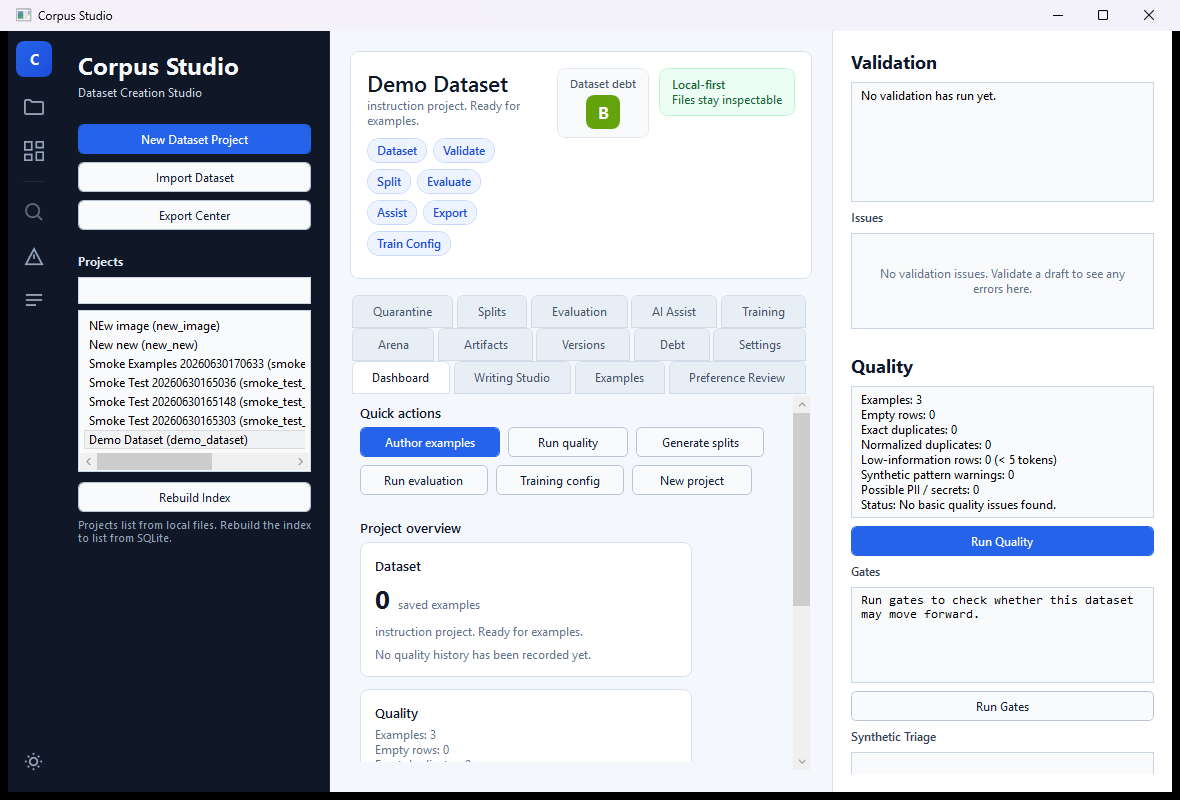
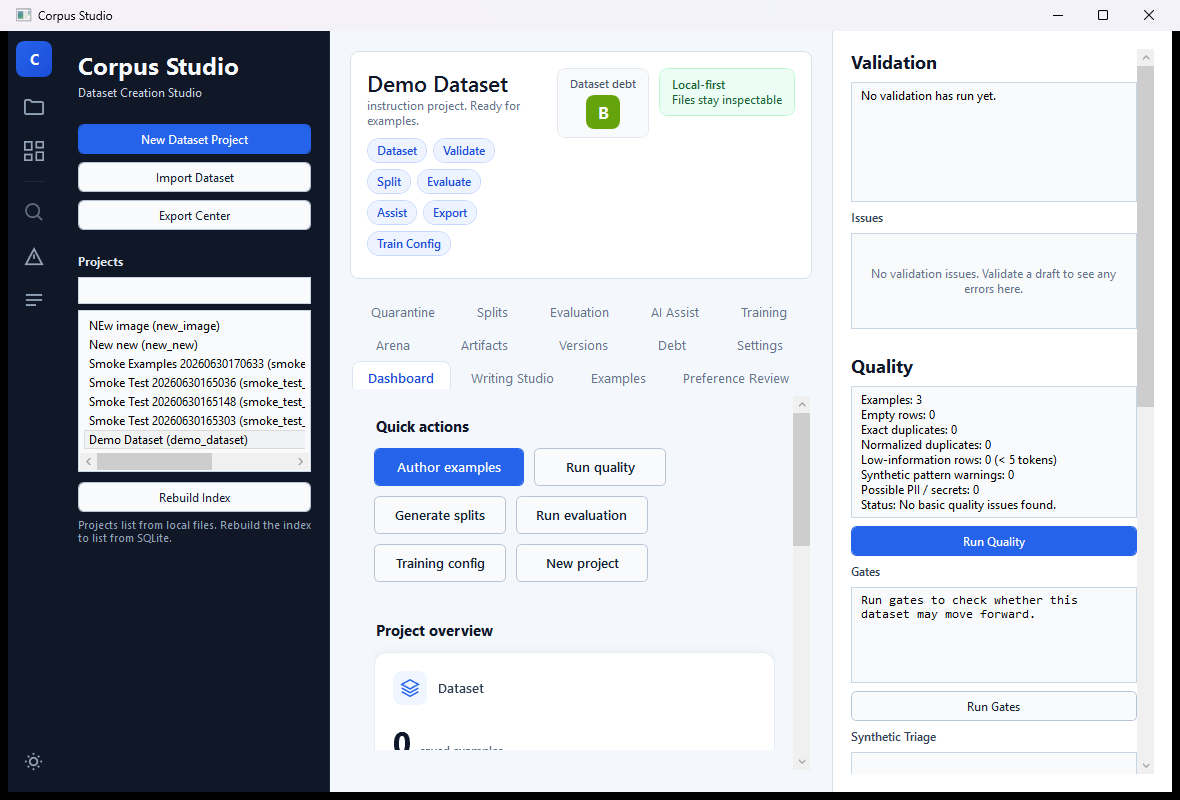
Refresh the Studio dashboard design — lighter, roomier, less bland (v1.2.10)
The Studio dashboard read as cluttered and flat: a heavy 3-row wall of boxy tabs,
cramped quick-action buttons, and plain title-over-text overview cards with little
breathing room. This is a visual pass (no logic changes) to calm it down.

- Tab strip: unselected tabs are now flat (transparent, muted) so a 14-tab strip
  reads as a light segmented control instead of a wall of boxes; the selected tab
  lifts to a white pill with a blue label. Cuts the biggest source of clutter.
- Overview cards: new DashboardCardStyle (radius 12, padding 18, soft drop shadow,
  softer border) + a coloured icon chip per card (Dataset/Quality/Splits/Evaluation)
  and a large metric value; cards now stretch full-width in a single calm column
  instead of narrow boxes floating with an empty gutter.
- Quick actions: taller (38px) buttons with more spacing; the primary "Author
  examples" stands out.
- More whitespace overall: bigger ScrollViewer padding and bolder section headers
  with room to breathe.

Pure XAML/styling — bindings, handlers, and automation ids are unchanged.

Verified: dotnet build clean (0 warnings); dotnet test 333 passed / 0 failed;
dashboard captured live via PrintWindow (docs/screenshots/studio-dashboard.png
refreshed).

diff --git a/apps/desktop/CorpusStudio.Desktop/Views/MainWindow.xaml b/apps/desktop/CorpusStudio.Desktop/Views/MainWindow.xaml
@@ -92,17 +92,20 @@
         </Style>
 
         <Style TargetType="{x:Type TabItem}">
-            <Setter Property="Padding" Value="12,8" />
-            <Setter Property="Margin" Value="0,0,4,0" />
-            <Setter Property="Foreground" Value="#475569" />
+            <Setter Property="Padding" Value="12,7" />
+            <Setter Property="Margin" Value="0,0,4,5" />
+            <Setter Property="Foreground" Value="#64748B" />
+            <Setter Property="FontSize" Value="12.5" />
             <Setter Property="Template">
                 <Setter.Value>
                     <ControlTemplate TargetType="{x:Type TabItem}">
+                        <!-- Flat by default so a 14-tab strip reads as a light segmented control,
+                             not a wall of boxes; the selected tab lifts to a white pill. -->
                         <Border x:Name="TabBorder"
-                                Background="#E8EEF6"
-                                BorderBrush="#D2DCE9"
+                                Background="Transparent"
+                                BorderBrush="Transparent"
                                 BorderThickness="1"
-                                CornerRadius="6,6,0,0"
+                                CornerRadius="8"
                                 Padding="{TemplateBinding Padding}">
                             <ContentPresenter ContentSource="Header"
                                               HorizontalAlignment="Center"
@@ -110,10 +113,15 @@
                                               RecognizesAccessKey="True" />
                         </Border>
                         <ControlTemplate.Triggers>
+                            <Trigger Property="IsMouseOver" Value="True">
+                                <Setter TargetName="TabBorder" Property="Background" Value="#E7EEF8" />
+                                <Setter Property="Foreground" Value="#334155" />
+                            </Trigger>
                             <Trigger Property="IsSelected" Value="True">
                                 <Setter TargetName="TabBorder" Property="Background" Value="{StaticResource PanelBrush}" />
-                                <Setter TargetName="TabBorder" Property="BorderBrush" Value="{StaticResource PanelBorderBrush}" />
-                                <Setter Property="Foreground" Value="#0F172A" />
+                                <Setter TargetName="TabBorder" Property="BorderBrush" Value="#DCE5F0" />
+                                <Setter Property="Foreground" Value="#1D4ED8" />
+                                <Setter Property="FontWeight" Value="SemiBold" />
                             </Trigger>
                         </ControlTemplate.Triggers>
                     </ControlTemplate>
@@ -192,6 +200,42 @@
             <Setter Property="BorderThickness" Value="1" />
             <Setter Property="CornerRadius" Value="8" />
             <Setter Property="Padding" Value="14" />
+        </Style>
+
+        <!-- Dashboard (v1.2.10) — roomier, softer cards + a bigger section header + a large
+             metric value, so the overview reads as a calm dashboard instead of dense boxes. -->
+        <Style x:Key="DashboardCardStyle" TargetType="{x:Type Border}">
+            <Setter Property="Background" Value="{StaticResource PanelBrush}" />
+            <Setter Property="BorderBrush" Value="#E6EDF5" />
+            <Setter Property="BorderThickness" Value="1" />
+            <Setter Property="CornerRadius" Value="12" />
+            <Setter Property="Padding" Value="18" />
+            <Setter Property="Effect">
+                <Setter.Value>
+                    <DropShadowEffect Color="#1E293B" BlurRadius="16" ShadowDepth="2"
+                                      Direction="270" Opacity="0.07" />
+                </Setter.Value>
+            </Setter>
+        </Style>
+
+        <Style x:Key="DashboardSectionHeaderStyle" TargetType="{x:Type TextBlock}">
+            <Setter Property="FontSize" Value="15" />
+            <Setter Property="FontWeight" Value="Bold" />
+            <Setter Property="Foreground" Value="{StaticResource HeadingTextBrush}" />
+            <Setter Property="Margin" Value="2,0,0,12" />
+        </Style>
+
+        <Style x:Key="DashboardCardLabelStyle" TargetType="{x:Type TextBlock}">
+            <Setter Property="FontSize" Value="12.5" />
+            <Setter Property="FontWeight" Value="SemiBold" />
+            <Setter Property="Foreground" Value="#334155" />
+            <Setter Property="VerticalAlignment" Value="Center" />
+        </Style>
+
+        <Style x:Key="DashboardMetricStyle" TargetType="{x:Type TextBlock}">
+            <Setter Property="FontSize" Value="32" />
+            <Setter Property="FontWeight" Value="Bold" />
+            <Setter Property="Foreground" Value="{StaticResource HeadingTextBrush}" />
         </Style>
 
         <Style x:Key="FilterGroupBorderStyle" TargetType="{x:Type Border}">
@@ -799,94 +843,121 @@
                     <TabItem x:Name="DashboardTab" Header="Dashboard">
                         <ScrollViewer VerticalScrollBarVisibility="Auto"
                                       HorizontalScrollBarVisibility="Disabled"
-                                      Padding="8">
+                                      Padding="22,20,18,20">
                             <StackPanel>
                                 <TextBlock Text="Quick actions"
-                                           Style="{StaticResource SectionHeaderTextStyle}" />
-                                <WrapPanel Margin="0,0,0,16">
+                                           Style="{StaticResource DashboardSectionHeaderStyle}" />
+                                <WrapPanel Margin="0,0,0,26">
                                     <Button Style="{StaticResource PrimaryButtonStyle}"
                                             AutomationProperties.AutomationId="DashboardAuthorButton"
                                             Content="Author examples"
-                                            Width="140" Margin="0,0,8,8"
+                                            Width="150" MinHeight="38" Margin="0,0,10,10"
                                             Click="GoToWritingStudioButton_Click" />
                                     <Button AutomationProperties.AutomationId="DashboardRunQualityButton"
                                             Content="Run quality"
-                                            Width="120" Margin="0,0,8,8"
+                                            Width="132" MinHeight="38" Margin="0,0,10,10"
                                             Click="RunQualityButton_Click" />
                                     <Button AutomationProperties.AutomationId="DashboardSplitsButton"
                                             Content="Generate splits"
-                                            Width="128" Margin="0,0,8,8"
+                                            Width="132" MinHeight="38" Margin="0,0,10,10"
                                             Click="GoToSplitsButton_Click" />
                                     <Button AutomationProperties.AutomationId="DashboardEvaluationButton"
                                             Content="Run evaluation"
-                                            Width="128" Margin="0,0,8,8"
+                                            Width="132" MinHeight="38" Margin="0,0,10,10"
                                             Click="GoToEvaluationButton_Click" />
                                     <Button AutomationProperties.AutomationId="DashboardTrainingButton"
                                             Content="Training config"
-                                            Width="128" Margin="0,0,8,8"
+                                            Width="132" MinHeight="38" Margin="0,0,10,10"
                                             Click="GoToTrainingButton_Click" />
                                     <Button AutomationProperties.AutomationId="DashboardNewProjectButton"
                                             Content="New project"
-                                            Width="120" Margin="0,0,8,8"
+                                            Width="132" MinHeight="38" Margin="0,0,10,10"
                                             Click="NewDatasetProjectButton_Click" />
                                 </WrapPanel>
 
                                 <TextBlock Text="Project overview"
-                                           Style="{StaticResource SectionHeaderTextStyle}" />
-                                <WrapPanel>
-                                    <Border Style="{StaticResource CardBorderStyle}"
-                                            Width="332" Margin="0,0,12,12" VerticalAlignment="Top">
+                                           Style="{StaticResource DashboardSectionHeaderStyle}"
+                                           Margin="2,2,0,12" />
+                                <StackPanel>
+                                    <!-- Dataset -->
+                                    <Border Style="{StaticResource DashboardCardStyle}"
+                                            Margin="0,0,0,14">
                                         <StackPanel>
-                                            <TextBlock Text="Dataset"
-                                                       Style="{StaticResource SectionHeaderTextStyle}" />
+                                            <StackPanel Orientation="Horizontal" Margin="0,0,0,14">
+                                                <Border Width="34" Height="34" CornerRadius="9" Background="#EFF6FF">
+                                                    <Path Data="M12,3 L21,8 L12,13 L3,8 Z M3,12 L12,17 L21,12 M3,16 L12,21 L21,16"
+                                                          Stroke="#2563EB" StrokeThickness="1.5" Fill="Transparent"
+                                                          Width="18" Height="18" Stretch="Uniform"
+                                                          HorizontalAlignment="Center" VerticalAlignment="Center" />
+                                                </Border>
+                                                <TextBlock Text="Dataset" Style="{StaticResource DashboardCardLabelStyle}" Margin="11,0,0,0" />
+                                            </StackPanel>
                                             <StackPanel Orientation="Horizontal">
                                                 <TextBlock Text="{Binding Examples.Count, Mode=OneWay}"
-                                                           FontSize="26" FontWeight="Bold"
-                                                           Foreground="{StaticResource HeadingTextBrush}" />
+                                                           Style="{StaticResource DashboardMetricStyle}" />
                                                 <TextBlock Text="saved examples"
                                                            Style="{StaticResource CaptionTextStyle}"
-                                                           VerticalAlignment="Bottom"
-                                                           Margin="8,0,0,4" />
+                                                           VerticalAlignment="Bottom" Margin="9,0,0,6" />
                                             </StackPanel>
                                             <TextBlock Text="{Binding ActiveSchemaDescription, Mode=OneWay}"
-                                                       Style="{StaticResource CaptionTextStyle}"
-                                                       Margin="0,8,0,0" />
-                                            <TextBlock Text="{Binding QualityHistorySummary, Mode=OneWay}"
-                                                       Style="{StaticResource CaptionTextStyle}"
-                                                       Margin="0,8,0,0" />
+                                                       Style="{StaticResource CaptionTextStyle}" Margin="0,10,0,0" />
                                         </StackPanel>
                                     </Border>
 
-                                    <Border Style="{StaticResource CardBorderStyle}"
-                                            Width="332" Margin="0,0,12,12" VerticalAlignment="Top">
+                                    <!-- Quality -->
+                                    <Border Style="{StaticResource DashboardCardStyle}"
+                                            Margin="0,0,0,14">
                                         <StackPanel>
-                                            <TextBlock Text="Quality"
-                                                       Style="{StaticResource SectionHeaderTextStyle}" />
+                                            <StackPanel Orientation="Horizontal" Margin="0,0,0,14">
+                                                <Border Width="34" Height="34" CornerRadius="9" Background="#ECFDF5">
+                                                    <Path Data="M12,3 L20,6 V11 C20,16 16,20 12,21 C8,20 4,16 4,11 V6 Z M9,11.5 L11,13.5 L15,9.5"
+                                                          Stroke="#16A34A" StrokeThickness="1.5" Fill="Transparent"
+                                                          Width="18" Height="18" Stretch="Uniform"
+                                                          HorizontalAlignment="Center" VerticalAlignment="Center" />
+                                                </Border>
+                                                <TextBlock Text="Quality" Style="{StaticResource DashboardCardLabelStyle}" Margin="11,0,0,0" />
+                                            </StackPanel>
                                             <TextBlock Text="{Binding QualitySummary, Mode=OneWay}"
                                                        Style="{StaticResource CaptionTextStyle}" />
                                         </StackPanel>
                                     </Border>
 
-                                    <Border Style="{StaticResource CardBorderStyle}"
-                                            Width="332" Margin="0,0,12,12" VerticalAlignment="Top">
+                                    <!-- Splits -->
+                                    <Border Style="{StaticResource DashboardCardStyle}"
+                                            Margin="0,0,0,14">
                                         <StackPanel>
-                                            <TextBlock Text="Splits"
-                                                       Style="{StaticResource SectionHeaderTextStyle}" />
+                                            <StackPanel Orientation="Horizontal" Margin="0,0,0,14">
+                                                <Border Width="34" Height="34" CornerRadius="9" Background="#F5F3FF">
+                                                    <Path Data="M4,6 H20 V18 H4 Z M11,6 V18 M15.5,6 V18"
+                                                          Stroke="#7C3AED" StrokeThickness="1.5" Fill="Transparent"
+                                                          Width="18" Height="18" Stretch="Uniform"
+                                                          HorizontalAlignment="Center" VerticalAlignment="Center" />
+                                                </Border>
+                                                <TextBlock Text="Splits" Style="{StaticResource DashboardCardLabelStyle}" Margin="11,0,0,0" />
+                                            </StackPanel>
                                             <TextBlock Text="{Binding SplitSummary, Mode=OneWay}"
                                                        Style="{StaticResource CaptionTextStyle}" />
                                         </StackPanel>
                                     </Border>
 
-                                    <Border Style="{StaticResource CardBorderStyle}"
-                                            Width="332" Margin="0,0,12,12" VerticalAlignment="Top">
+                                    <!-- Evaluation -->
+                                    <Border Style="{StaticResource DashboardCardStyle}"
+                                            Margin="0,0,0,14">
                                         <StackPanel>
-                                            <TextBlock Text="Evaluation"
-                                                       Style="{StaticResource SectionHeaderTextStyle}" />
+                                            <StackPanel Orientation="Horizontal" Margin="0,0,0,14">
+                                                <Border Width="34" Height="34" CornerRadius="9" Background="#FFF7ED">
+                                                    <Path Data="M5,20 V11 M11,20 V5 M17,20 V14 M4,20 H20"
+                                                          Stroke="#EA580C" StrokeThickness="1.6" Fill="Transparent"
+                                                          Width="18" Height="18" Stretch="Uniform"
+                                                          HorizontalAlignment="Center" VerticalAlignment="Center" />
+                                                </Border>
+                                                <TextBlock Text="Evaluation" Style="{StaticResource DashboardCardLabelStyle}" Margin="11,0,0,0" />
+                                            </StackPanel>
                                             <TextBlock Text="{Binding EvaluationSummary, Mode=OneWay}"
                                                        Style="{StaticResource CaptionTextStyle}" />
                                         </StackPanel>
                                     </Border>
-                                </WrapPanel>
+                                </StackPanel>
                             </StackPanel>
                         </ScrollViewer>
                     </TabItem>